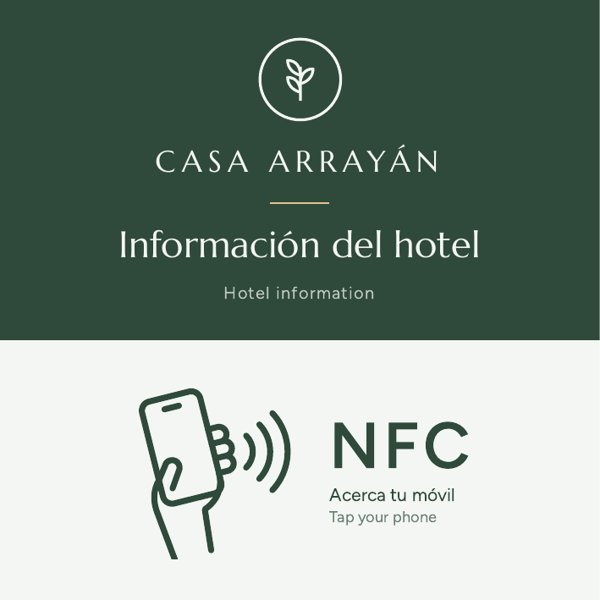
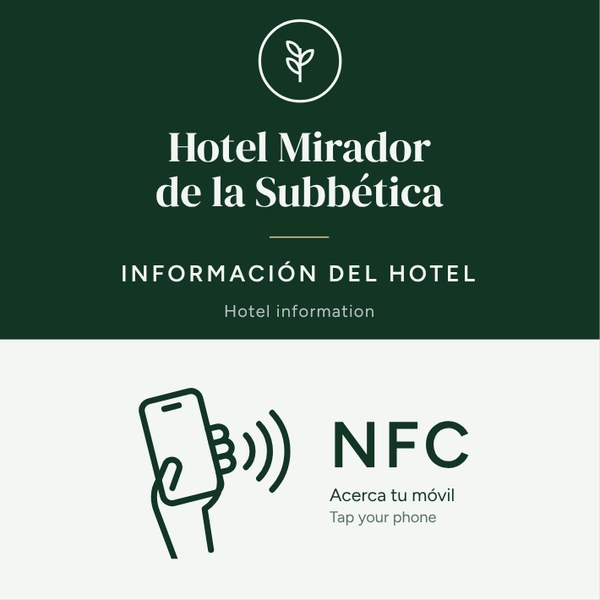
Hoteles: ejemplo Hotel Mirador de la Subbética con el diseño nuevo y verde ftalo
Claude-Session: https://claude.ai/code/session_01DiEqeMVuyXayv416vFoDd7

diff --git a/hoteles/index.html b/hoteles/index.html
@@ -149,7 +149,7 @@
       </div>
     </div>
     <div class="visual">
-      <img class="phone" src="mini-web.jpg" alt="Mini web de un hotel de ejemplo en el móvil: wifi, recepción y desayuno" width="585" height="1170">
+      <img class="phone" src="mini-web.jpg" alt="Mini web de un hotel de ejemplo en el móvil: reseñas en Google y TripAdvisor, botones, wifi y horarios" width="585" height="1170">
       <img class="sticker" src="adhesivo.jpg" alt="Adhesivo NFC de 12 por 12 centímetros con el diseño del hotel y el dibujo de la mano con el móvil" width="600" height="600">
     </div>
   </div>
